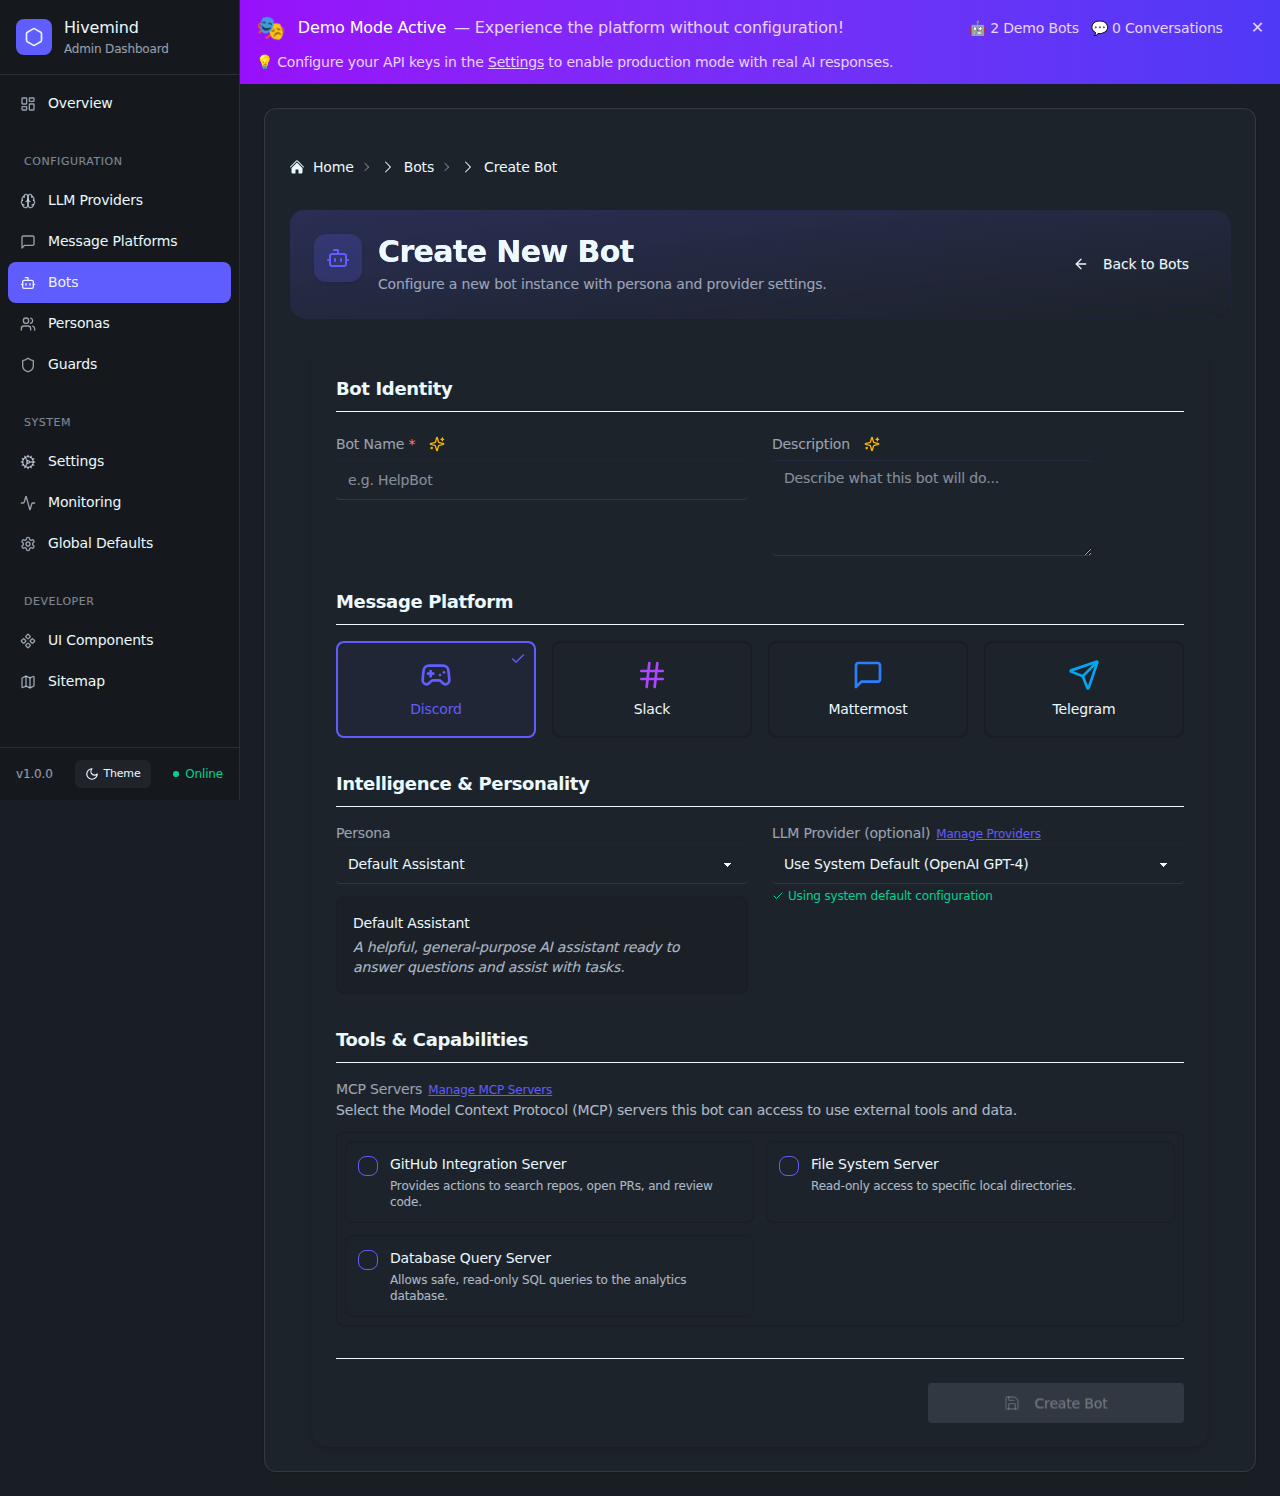
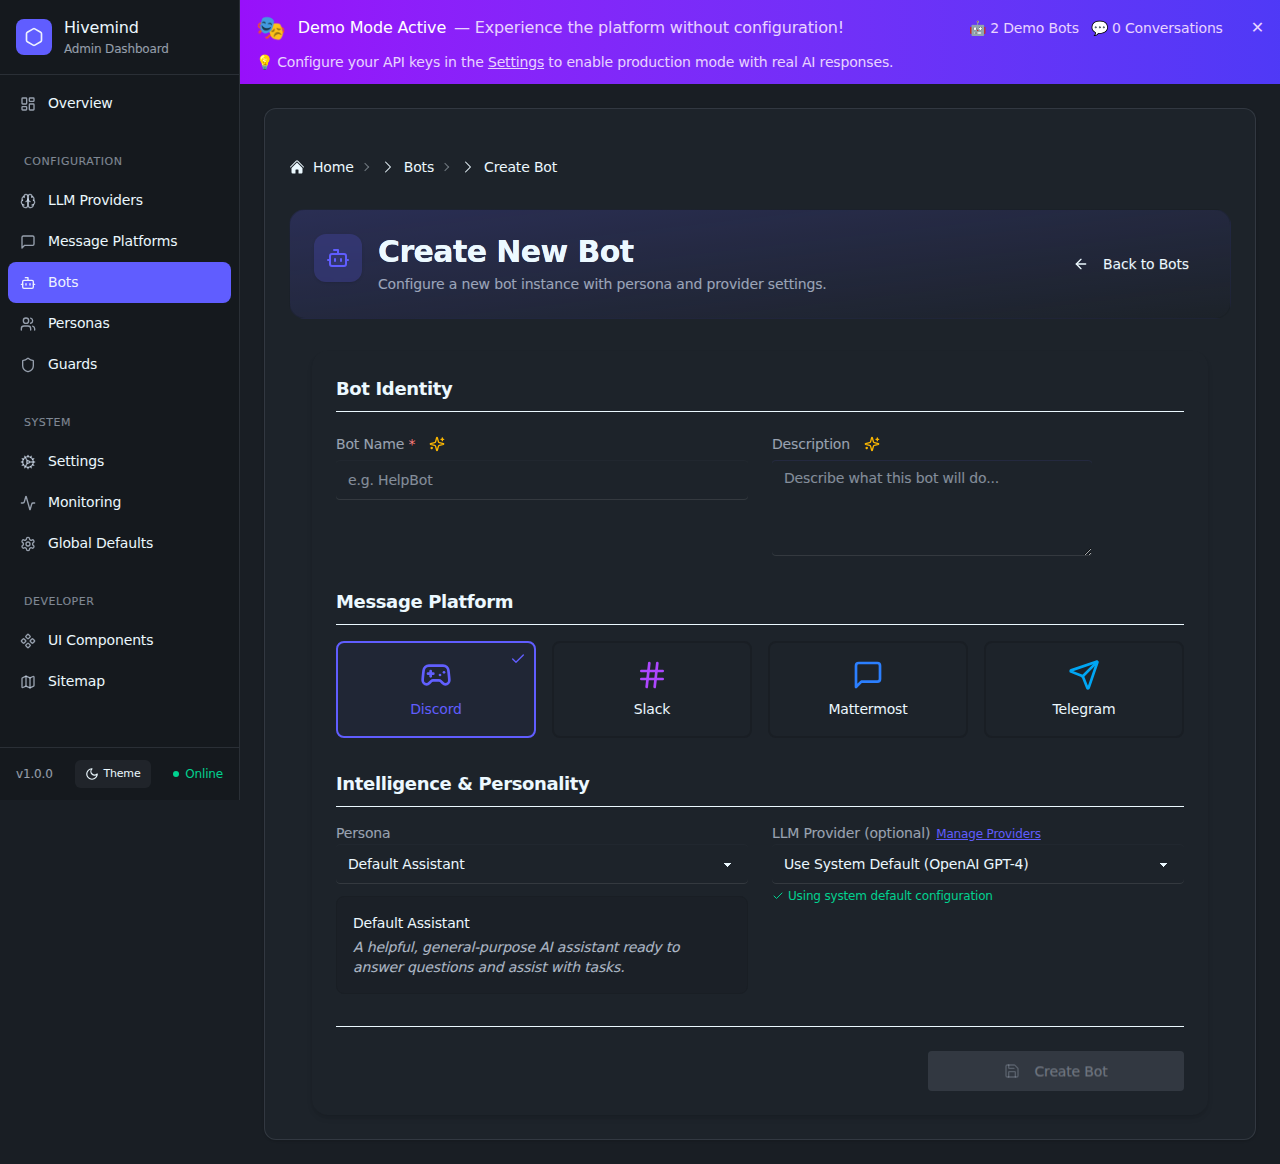
Refiner (Bot Creation Form Validation Messages): Fix Bot Creation Form Validation Messages UX (#958)
* Fix Bot Creation Form Validation Messages UX

Refactored the validation messages in BotCreatePage.tsx and CreateBotWizard.tsx to use proper DaisyUI structure (`<label className="label">` and `<span className="label-text-alt">`) for error states. Fixed a blocking syntax error in ProviderConfigModal.tsx and unblocked the Playwright screenshot test.

* Fix Netlify deployment failures in CI

Configured Netlify build to ignore branches other than main by adding the
`ignore = "test \"$BRANCH\" != \"main\""` directive to `netlify.toml` in the
`[build]` block, preventing it from failing CI checks on PR branches.

* a11y(CreateBotWizard): add aria-live for validation messages

- Add aria-live=polite and aria-atomic=true to validation label
- Improves screen reader announcement of validation state changes

---------

diff --git a/src/client/src/pages/BotCreatePage.tsx b/src/client/src/pages/BotCreatePage.tsx
@@ -317,16 +317,18 @@ const BotCreatePage: React.FC = () => {
                         <option key={p.key} value={p.key}>{p.name} ({p.provider})</option>
                       ))}
                     </Select>
-                    {!defaultLlmConfigured && !formData.llmProvider && (
-                      <div className="text-error text-xs mt-1">
-                        System default is not configured. Please select a provider.
-                      </div>
-                    )}
-                    {defaultLlmConfigured && !formData.llmProvider && (
-                      <div className="text-success text-xs mt-1 flex items-center gap-1">
-                        <Check className="w-3 h-3" /> Using system default configuration
-                      </div>
-                    )}
+                    <label className="label">
+                      {!defaultLlmConfigured && !formData.llmProvider && (
+                        <span className="label-text-alt text-error">
+                          System default is not configured. Please select a provider.
+                        </span>
+                      )}
+                      {defaultLlmConfigured && !formData.llmProvider && (
+                        <span className="label-text-alt text-success flex items-center gap-1">
+                          <Check className="w-3 h-3" /> Using system default configuration
+                        </span>
+                      )}
+                    </label>
                   </div>
                 </div>
               </div>

diff --git a/src/client/src/components/BotManagement/CreateBotWizard.tsx b/src/client/src/components/BotManagement/CreateBotWizard.tsx
@@ -202,6 +202,18 @@ export const CreateBotWizard: React.FC<CreateBotWizardProps> = ({
                                     <option disabled>──────────</option>
                                     <option value="___manage___">Add / Manage Providers...</option>
                                 </select>
+                                <label className="label" aria-live="polite" aria-atomic="true">
+                                    {!defaultLlmConfigured && !formData.llmProvider && (
+                                        <span className="label-text-alt text-error">
+                                            System default is not configured. Please select a provider.
+                                        </span>
+                                    )}
+                                    {defaultLlmConfigured && !formData.llmProvider && (
+                                        <span className="label-text-alt text-success flex items-center gap-1">
+                                            <Check className="w-3 h-3" /> Using system default configuration
+                                        </span>
+                                    )}
+                                </label>
                             </div>
                         </div>
                     </div>

diff --git a/src/client/src/components/ProviderConfiguration/ProviderConfigModal.tsx b/src/client/src/components/ProviderConfiguration/ProviderConfigModal.tsx
@@ -21,7 +21,7 @@ interface ProviderConfigModalProps {
   onSubmit: (providerData: any) => void;
 }
 
-const const ProviderConfigModal: React.FC<ProviderConfigModalProps> = ({
+const ProviderConfigModal: React.FC<ProviderConfigModalProps> = ({
   modalState,
   existingProviders,
   onClose,
